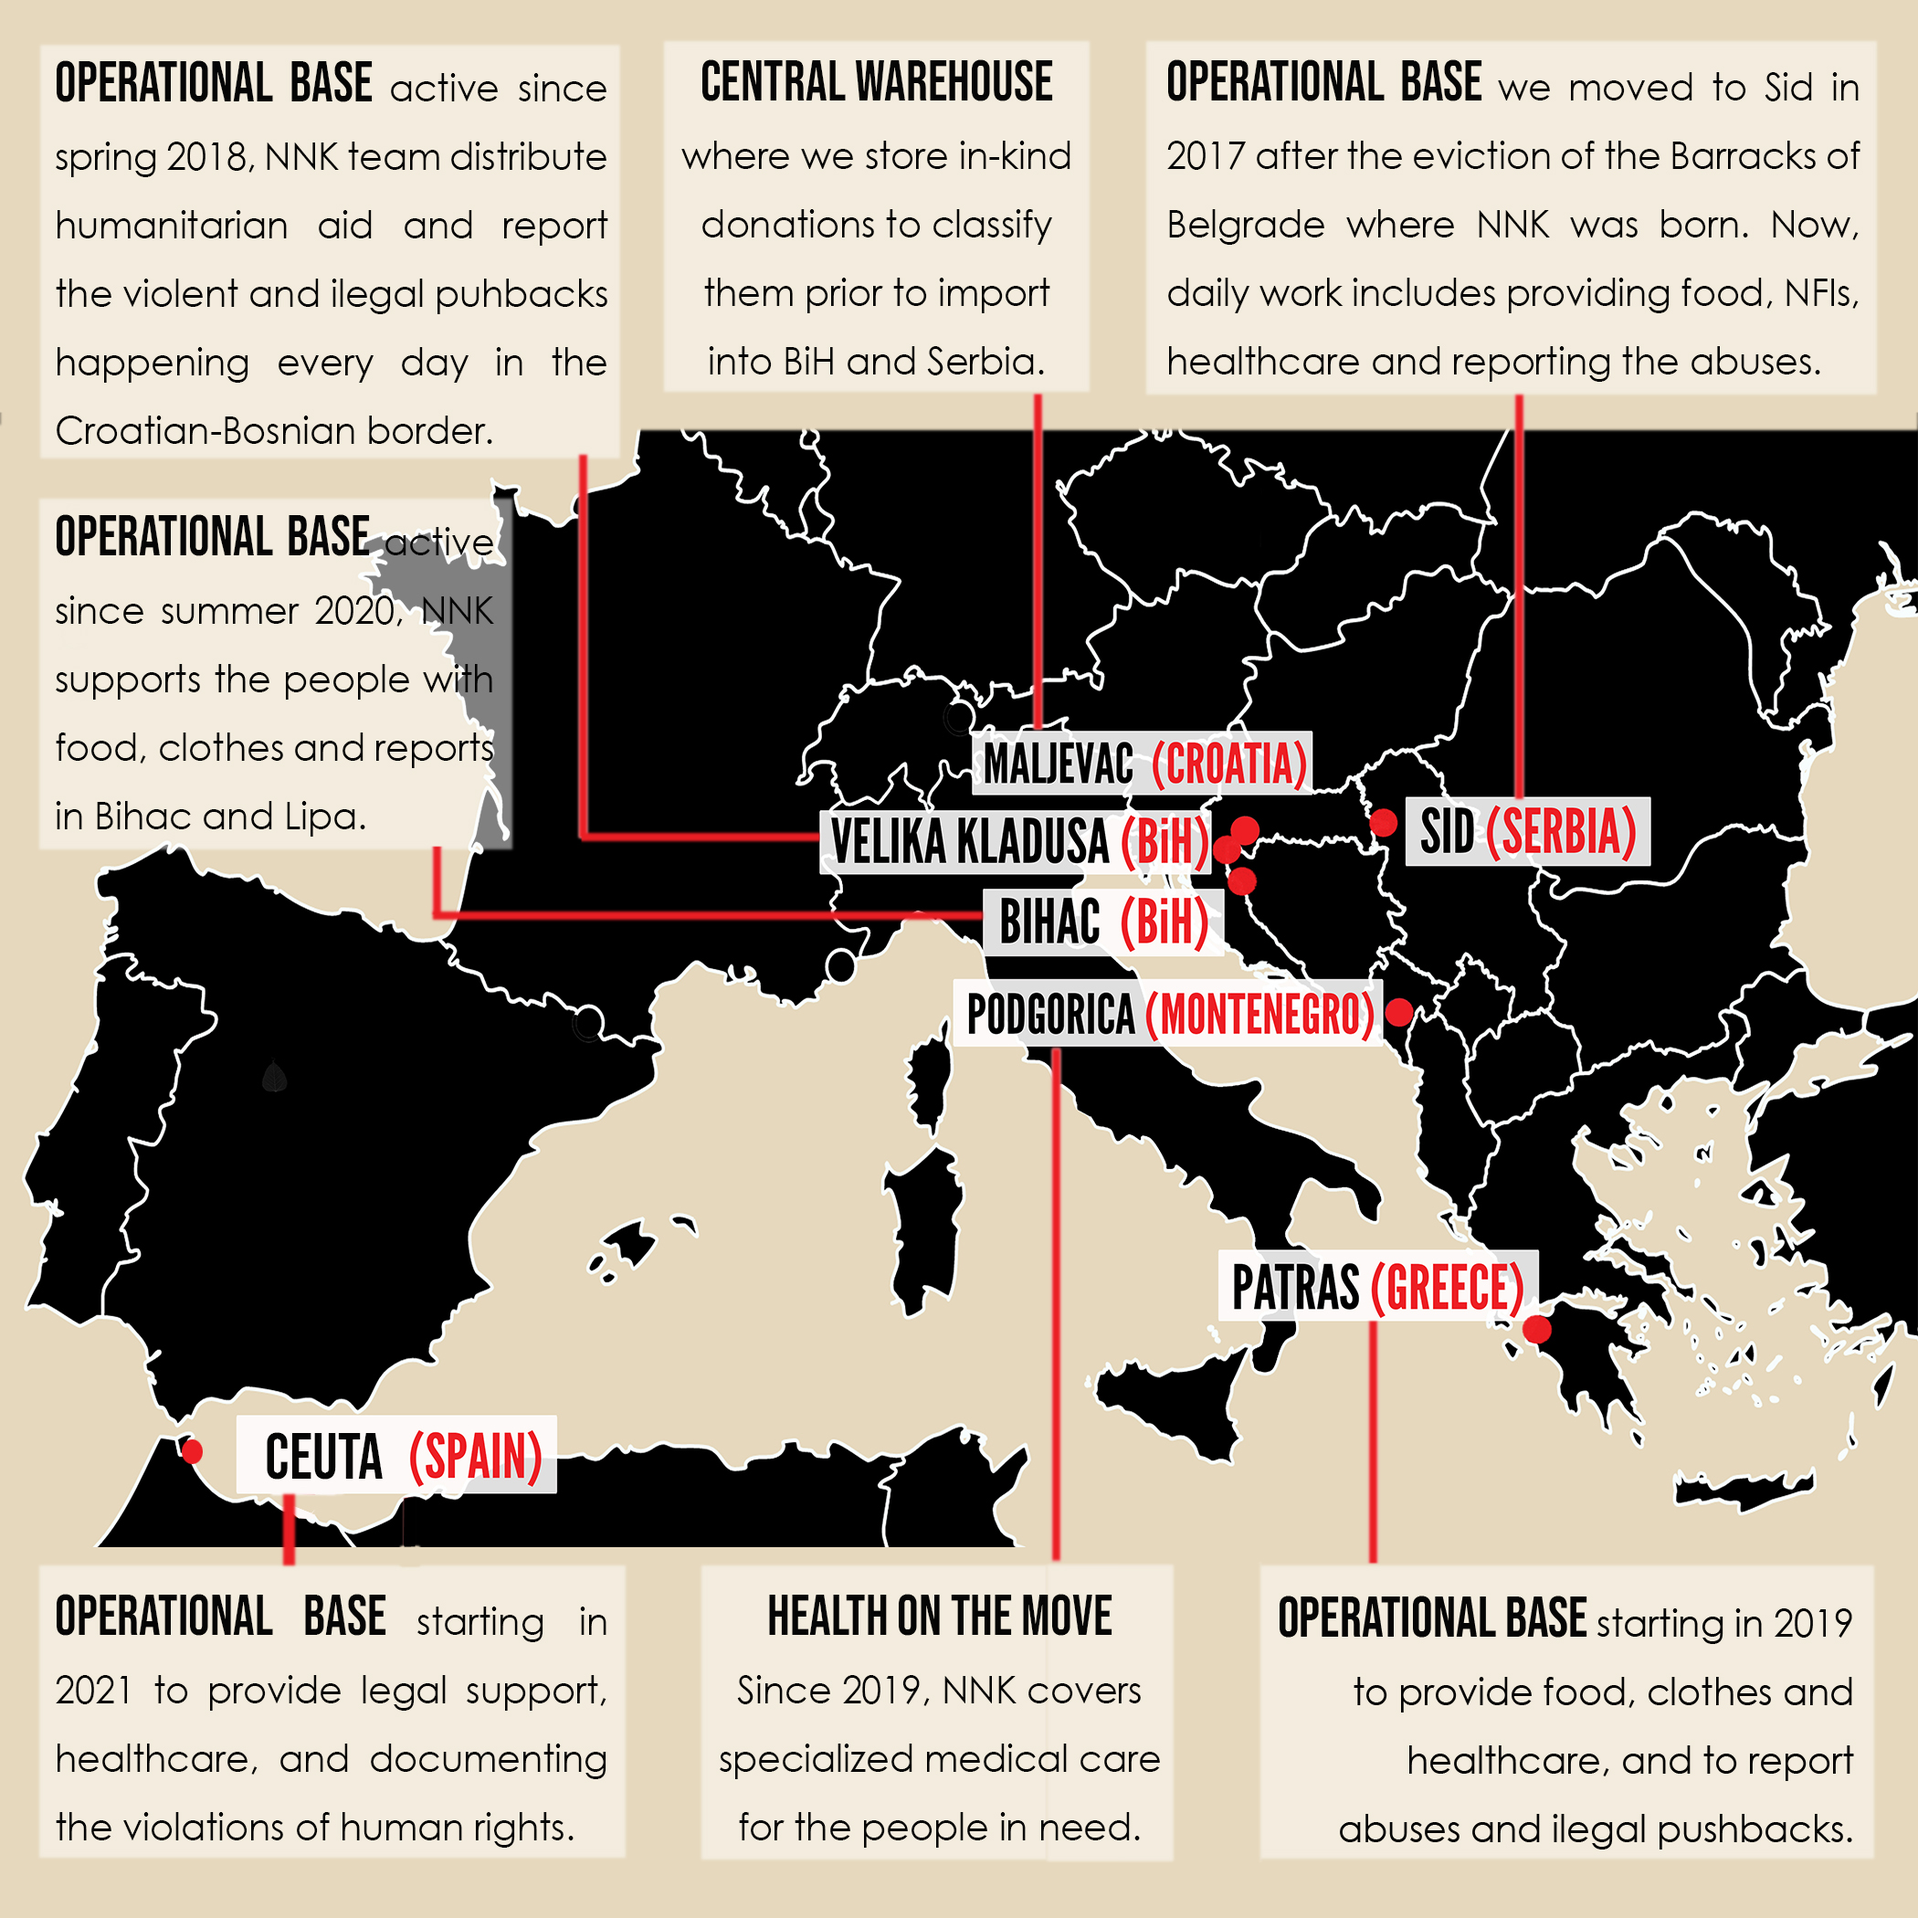
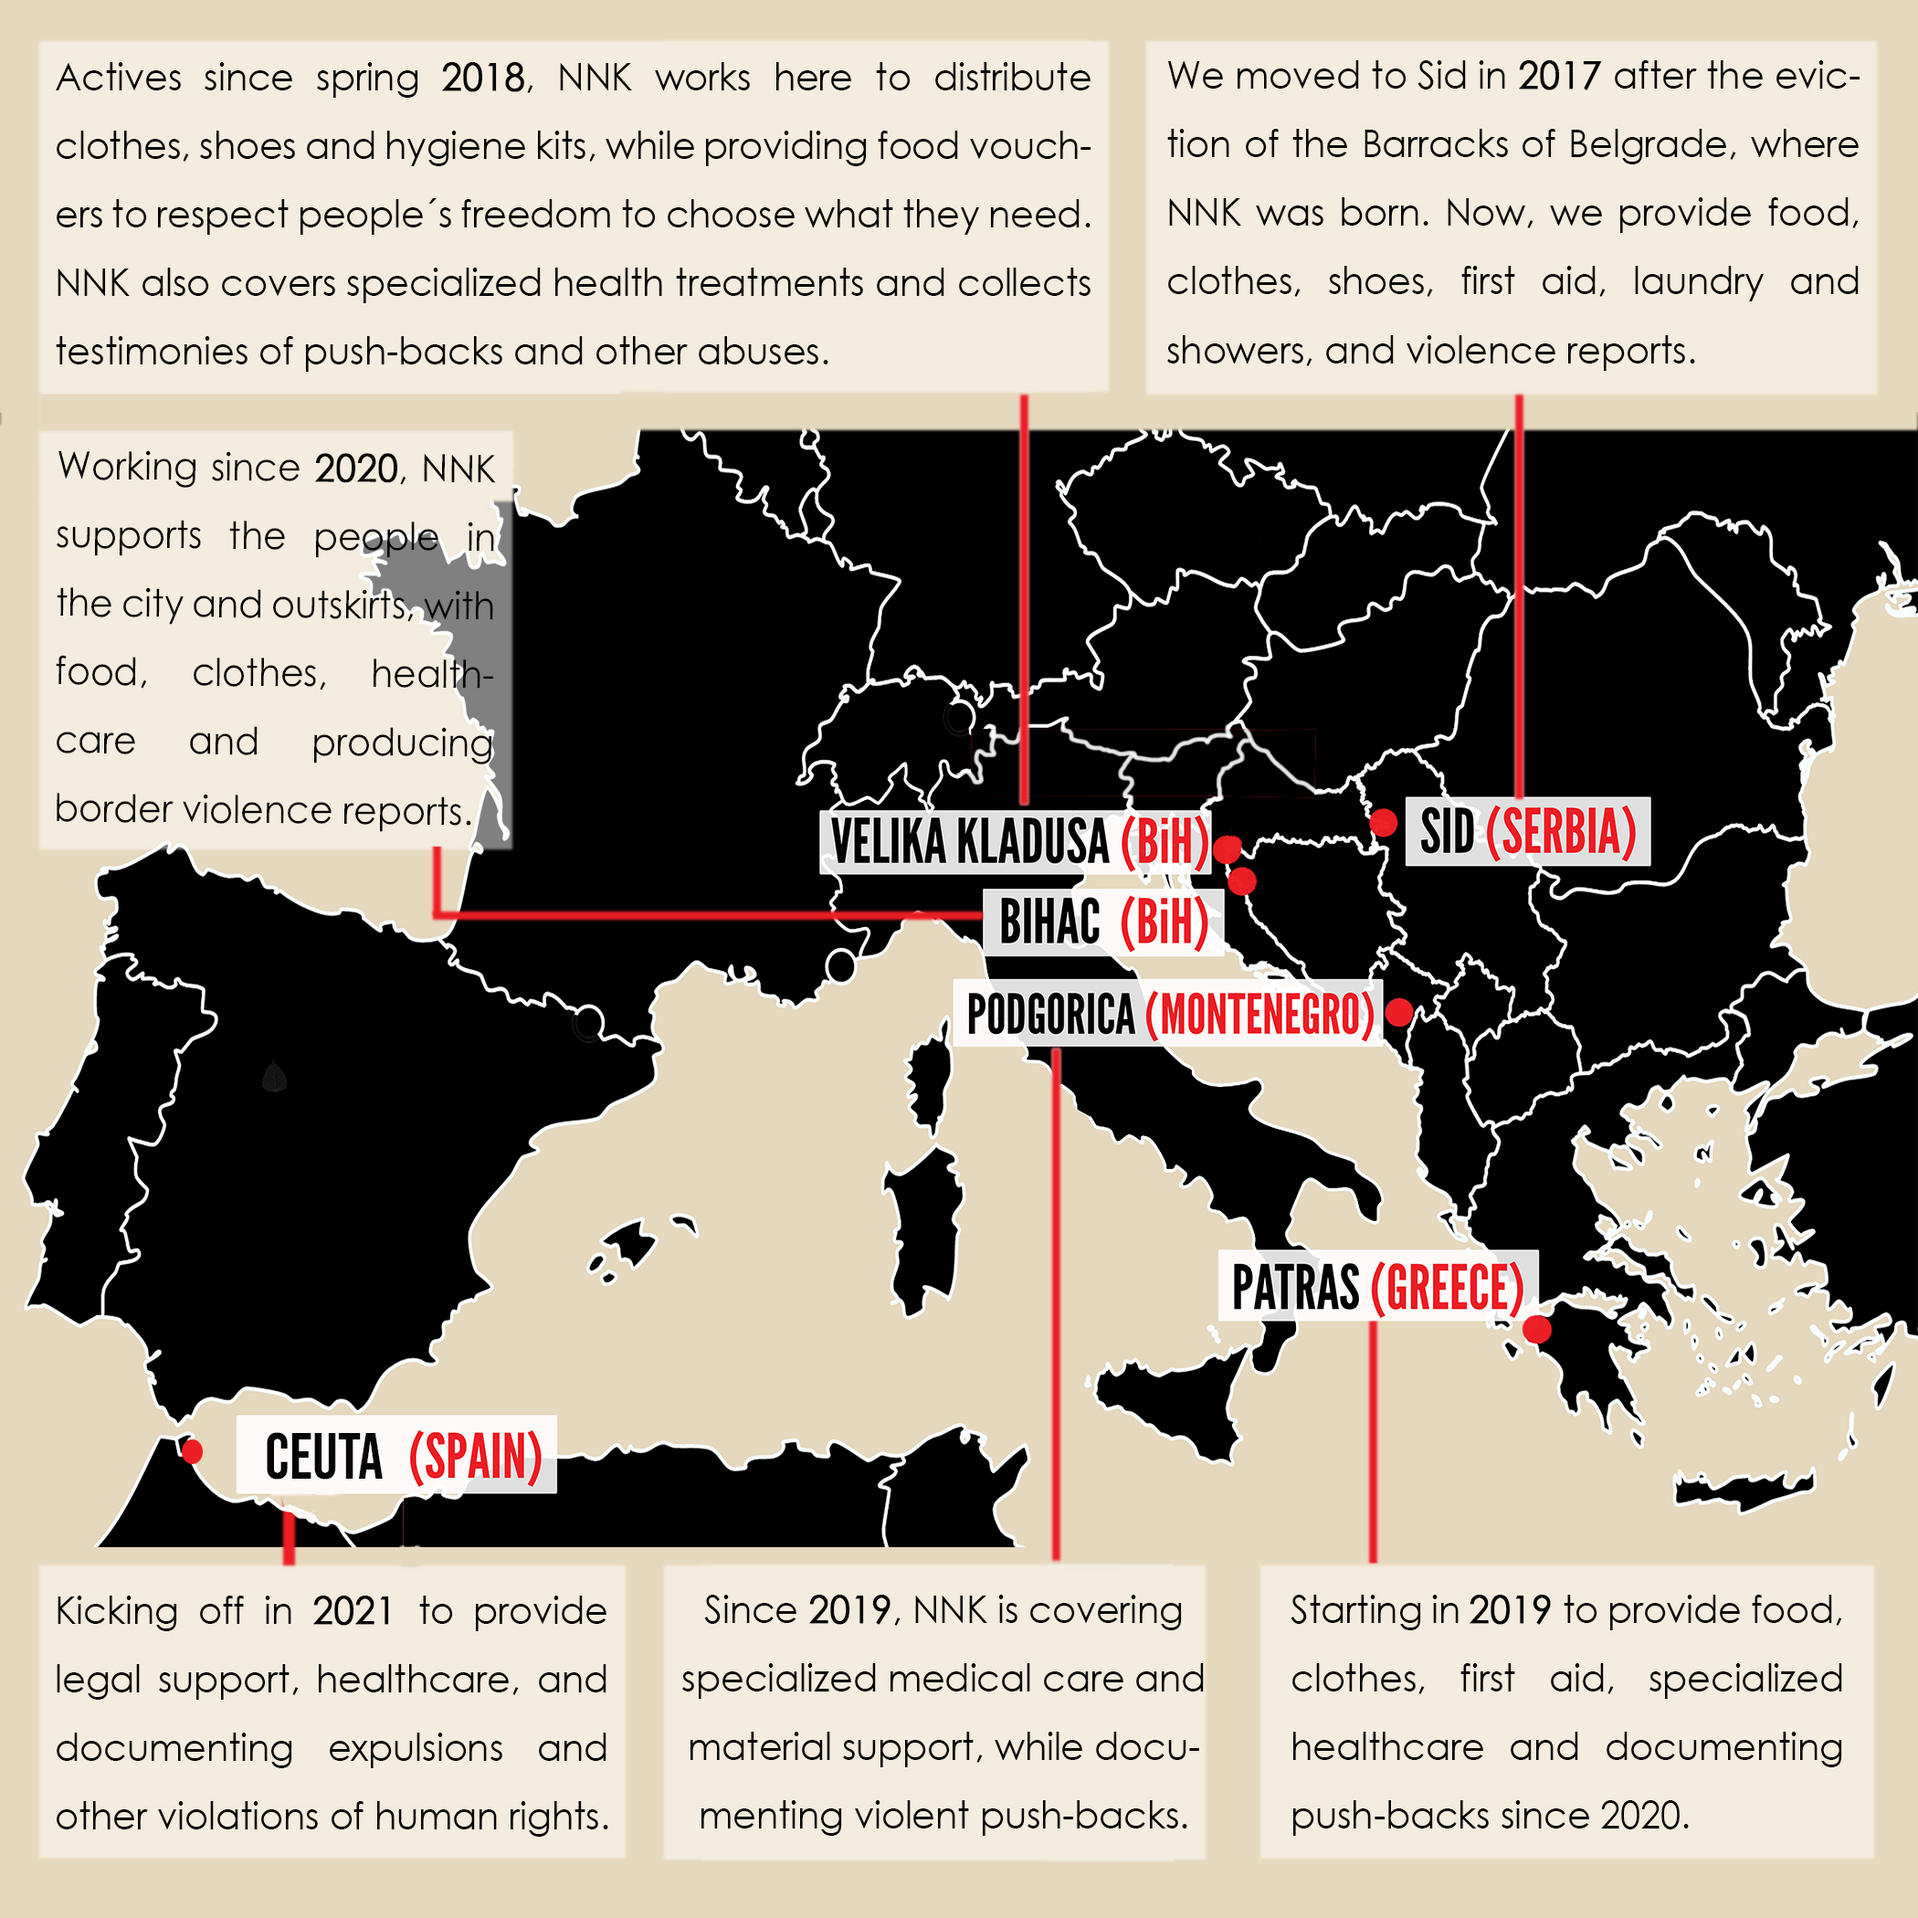
feat: [#154] Added Spanish map

diff --git a/packages/nnk/src/components/views/Where/index.js b/packages/nnk/src/components/views/Where/index.js
@@ -4,7 +4,7 @@ import { connect } from 'frontity';
 import { getSocialLinks, toggleBodyScroll } from '../../../utils';
 import { WHERE_TEXTS } from '../../../db';
 import SectionHeader from '../SectionHeader';
-import { Mapv1, Photo05 } from '../../../assets/images';
+import { Mapv1, Mapv1Es, Photo05 } from '../../../assets/images';
 import { StatePropType } from '../../../types';
 import { Content, Map, ModalImage, Section } from './styles';
 import AppModal from '../../core/AppModal';
@@ -25,6 +25,13 @@ const WhereSection = ({ state }) => {
     }
   };
 
+  const getMapImage = () => {
+    if (language === 'es') {
+      return Mapv1Es;
+    }
+    return Mapv1;
+  };
+
   useEffect(() => {
     texts = WHERE_TEXTS[language];
   }, [language]);
@@ -32,8 +39,8 @@ const WhereSection = ({ state }) => {
   return (
     <Section colors={colors}>
       {displayModal && (
-        <AppModal>
-          <ModalImage src={Mapv1} alt={texts.mapAlt} onClick={onToggleMap} />
+        <AppModal closeAction={onToggleMap}>
+          <ModalImage src={getMapImage()} alt={texts.mapAlt} />
         </AppModal>
       )}
       <SectionHeader
@@ -44,7 +51,7 @@ const WhereSection = ({ state }) => {
         title={texts.title}
       />
       <Content>
-        <Map src={Mapv1} alt={texts.mapAlt} onClick={onToggleMap} />
+        <Map src={getMapImage()} alt={texts.mapAlt} onClick={onToggleMap} />
       </Content>
     </Section>
   );

diff --git a/packages/nnk/src/components/views/NavItem/index.js b/packages/nnk/src/components/views/NavItem/index.js
@@ -61,11 +61,7 @@ const NavItem = ({ colors, language, section }) => {
           {section.subItems &&
             section.subItems.map(subItem => (
               <SubItem key={subItem.title} link={subItem.link}>
-                <ItemLink
-                  colors={colors}
-                  isLengthy={subItem.title.length > 7}
-                  key={subItem.title}
-                >
+                <ItemLink colors={colors} isLengthy={subItem.title.length > 7}>
                   {styleSubItems(subItem.title)}
                 </ItemLink>
               </SubItem>

diff --git a/packages/nnk/src/assets/images/index.js b/packages/nnk/src/assets/images/index.js
@@ -34,6 +34,7 @@ export const Program03 = require('./spots/program03.jpeg');
 
 // Where
 export const Mapv1 = require('./maps/mapv1.jpg');
+export const Mapv1Es = require('./maps/mapv1-es.jpg');
 
 // Why
 export const HeroWhy = require('./spots/trainTracks.jpg');
